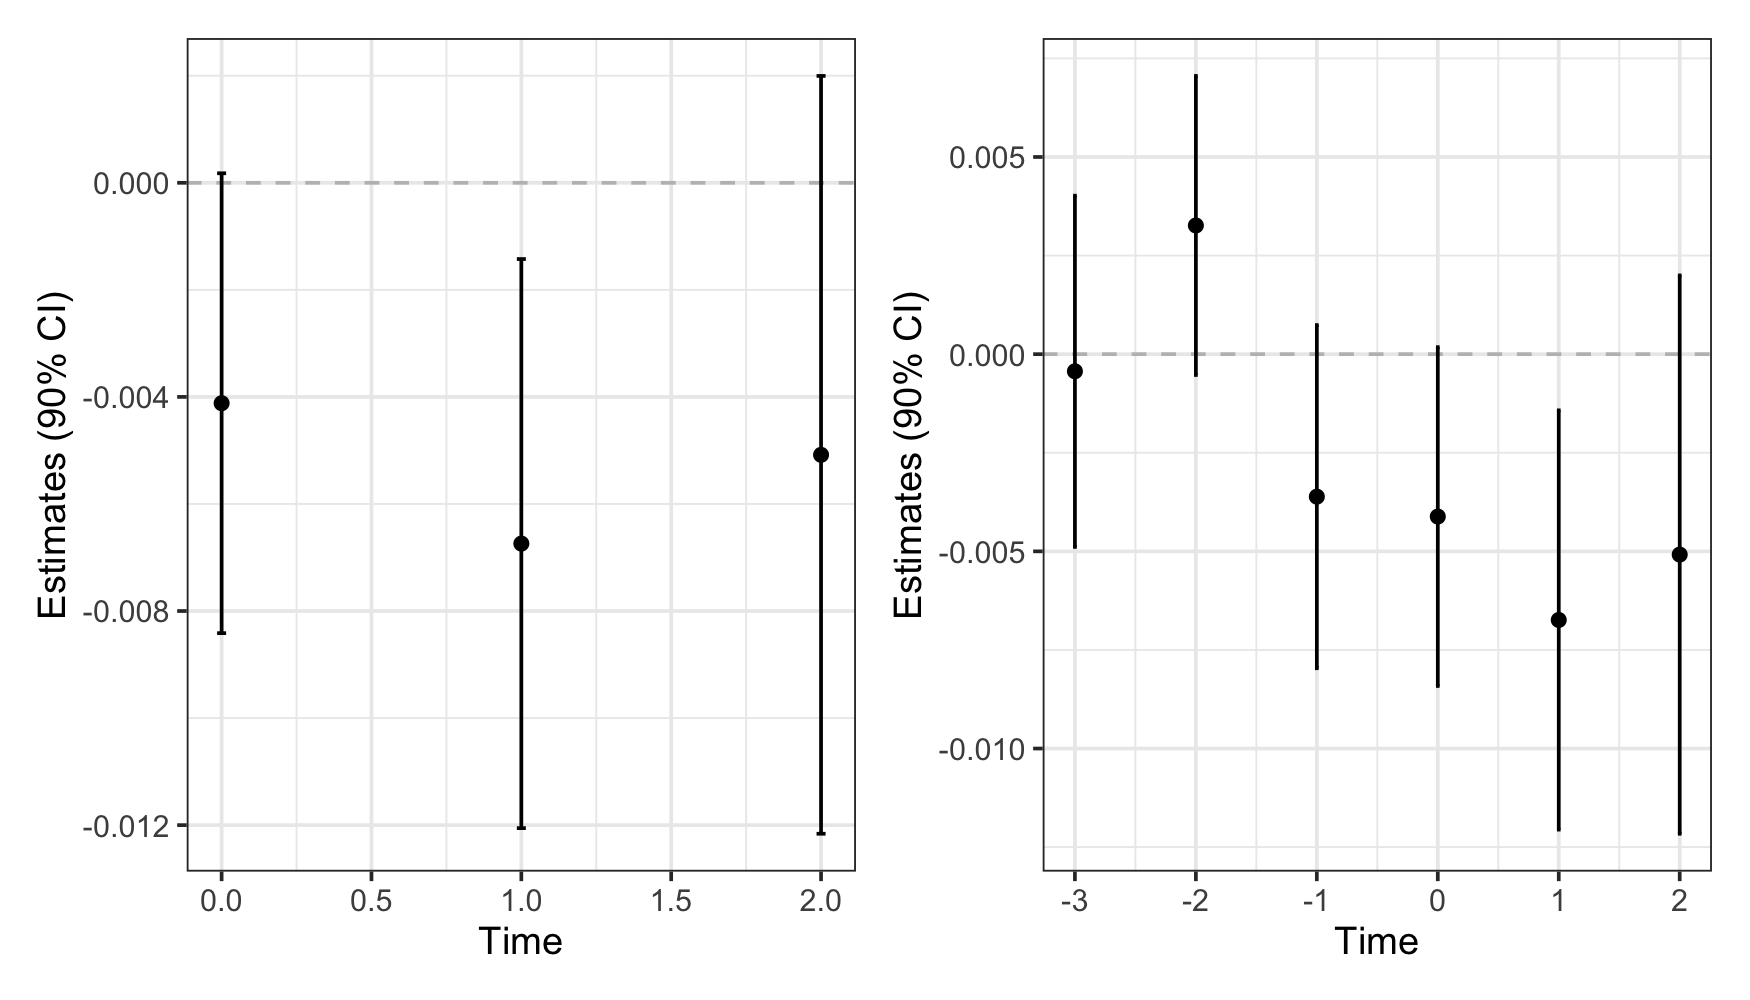
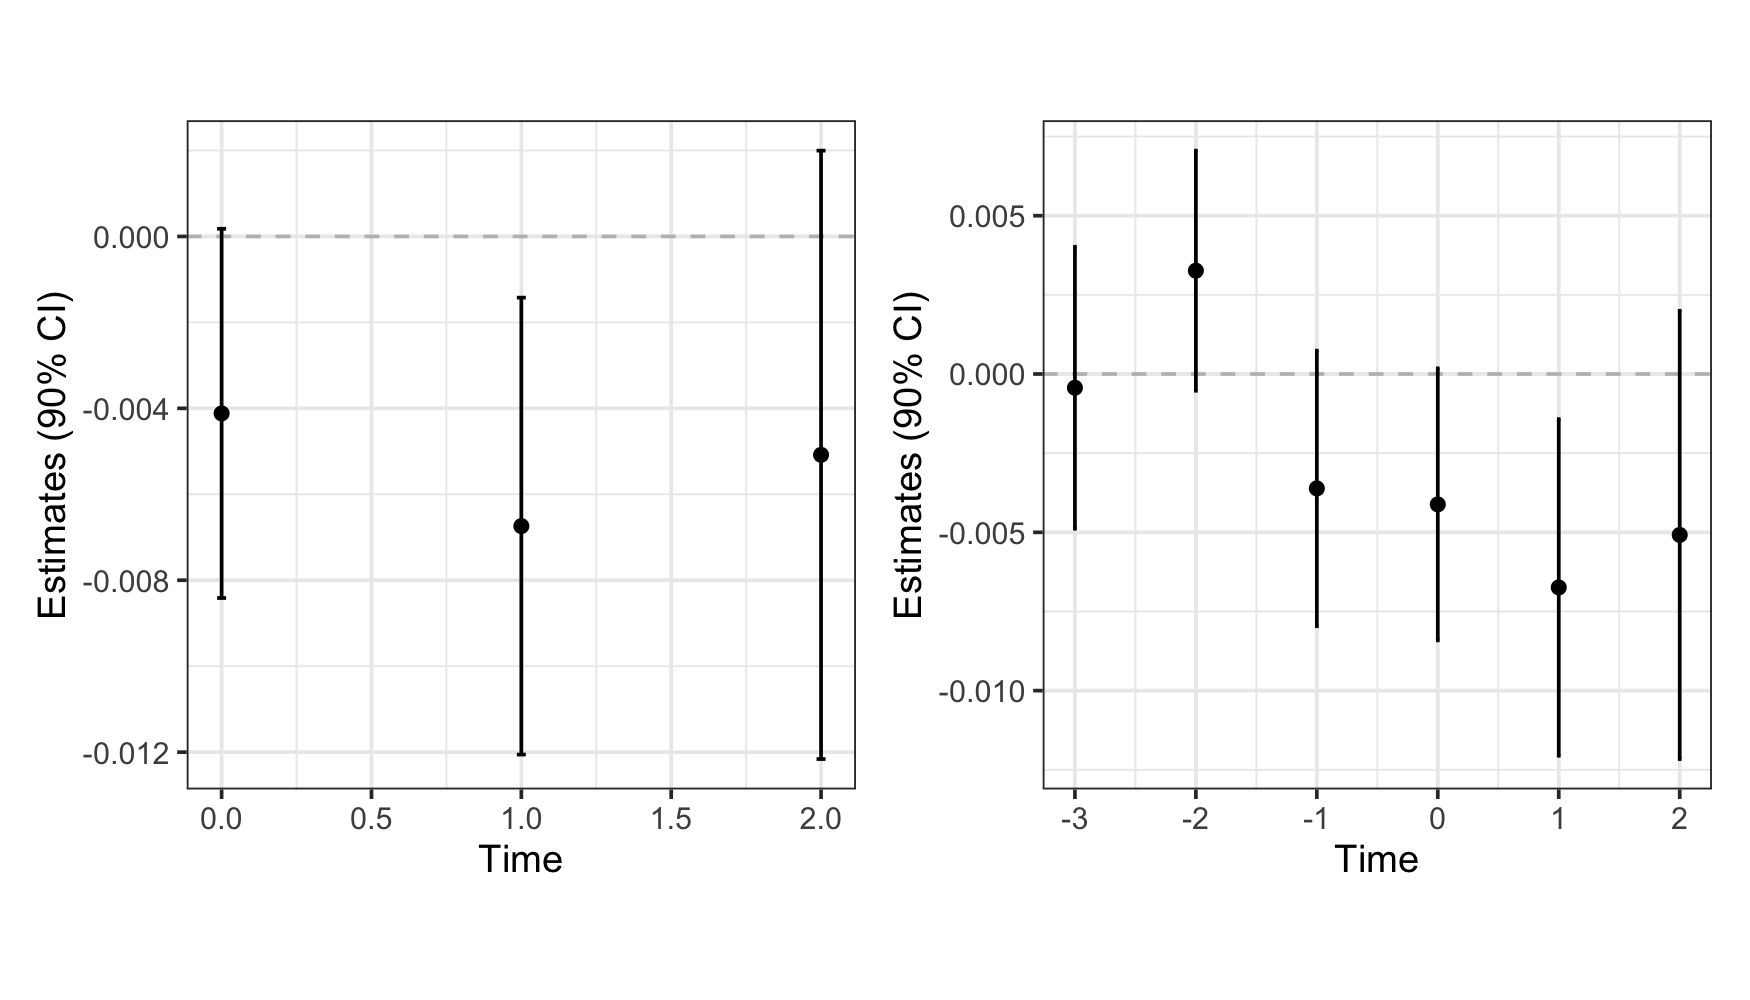
Update figure

diff --git a/README.md b/README.md
@@ -144,8 +144,16 @@ summary(fit_panel)
 `summary()` function can be used to view estimates.
 
 ``` r
+# plot only treatment effects
+post_plot <- plot(fit_panel)
+
+# plot treatment effects + pre-treatment assessment
+pre_post_plot <- plot(fit_panel, check_panel)
+
+## show the plot side-by-side
 require(patchwork)
-plot(fit_panel) + plot(fit_panel, check_panel)
+(post_plot + ggplot2::theme(aspect.ratio=1)) +
+(pre_post_plot + ggplot2::theme(aspect.ratio=1))
 ```
 
 <img src="man/figures/README-unnamed-chunk-5-1.png" width="100%" style="display: block; margin: auto;" />
